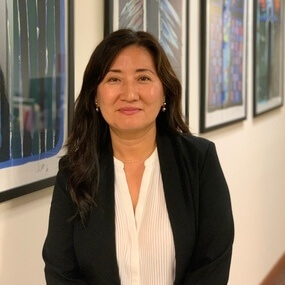
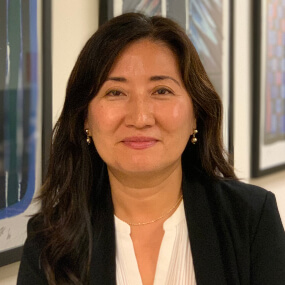
fix up attorney profiles page and change won pic

diff --git a/attorney-profiles.html b/attorney-profiles.html
@@ -301,13 +301,6 @@
 				</div>
 				<div class="col-md-4 col-sm-4 text-center animate-box" data-animate-effect="fadeIn">
 					<div class="fh5co-staff">
-						<img src="images/Anastasia Latos.jpg" alt="Anastasia Latos">
-						<a href="anastasia-latos.html"><h3>Anastasia Latos</h3></a>
-						<strong class="role">Associate</strong>
-					</div>
-				</div>
-				<div class="col-md-4 col-sm-4 text-center animate-box" data-animate-effect="fadeIn">
-					<div class="fh5co-staff">
 						<img src="images/Marcus Lee.jpg" alt="Marcus Lee">
 						<a href="marcus-lee.html"><h3>Marcus Lee</h3></a>
 						<strong class="role">Associate</strong>
@@ -343,11 +336,12 @@
 				</div>
 				<div class="col-md-4 col-sm-4 text-center animate-box" data-animate-effect="fadeIn">
 					<div class="fh5co-staff">
-						<img src="images/Antigone Tzakis.jpg" alt="Antigone Tzakis">
-						<a href="antigone-tzakis.html"><h3>Antigone Tzakis</h3></a>
+						<img src="images/Won J. Sohng.jpg" alt="Won J. Sohng">
+						<a href="won-j-sohng.html"><h3>Won J. Sohng</h3></a>
 						<strong class="role">Associate</strong>
 					</div>
 				</div>
+				<div class="col-md-2 col-sm-2 col-centered text-center animate-box " data-animate-effect="fadeIn"></div>
 				<div class="col-md-4 col-sm-4 col-centered text-center animate-box " data-animate-effect="fadeIn">
 					<div class="fh5co-staff">
 						<img src="images/ChristineVetter.jpg" alt="Christine Vetter">
@@ -364,8 +358,7 @@
 						<strong class="role">Associate</strong>
 					</div>
 				</div>
-				
-				<div class="col-md-4 col-sm-4 text-center animate-box" data-animate-effect="fadeIn"></div>
+				<div class="col-md-2 col-sm-2 col-centered text-center animate-box " data-animate-effect="fadeIn"></div>
 			</div>
 			<br><br><br><br>
 			<div class="col-md-6 col-md-offset-3 text-center fh5co-heading mt-3"><h3>Of Counsel</h3></div>

diff --git a/associates.html b/associates.html
@@ -249,6 +249,7 @@
 						<strong class="role">Associate</strong>
 					</div>
 				</div>
+				<div class="col-md-2 col-sm-2 col-centered text-center animate-box " data-animate-effect="fadeIn"></div>
 				<div class="col-md-4 col-sm-4 col-centered text-center animate-box " data-animate-effect="fadeIn">
 					<div class="fh5co-staff">
 						<img src="images/ChristineVetter.jpg" alt="Christine Vetter">
@@ -265,8 +266,7 @@
 						<strong class="role">Associate</strong>
 					</div>
 				</div>
-				
-				<div class="col-md-4 col-sm-4 text-center animate-box" data-animate-effect="fadeIn"></div>
+				<div class="col-md-2 col-sm-2 col-centered text-center animate-box " data-animate-effect="fadeIn"></div>
 			</div>
 		</div>
 	</div>
